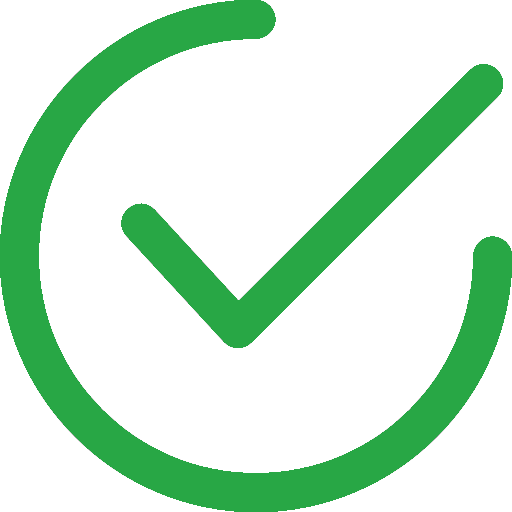
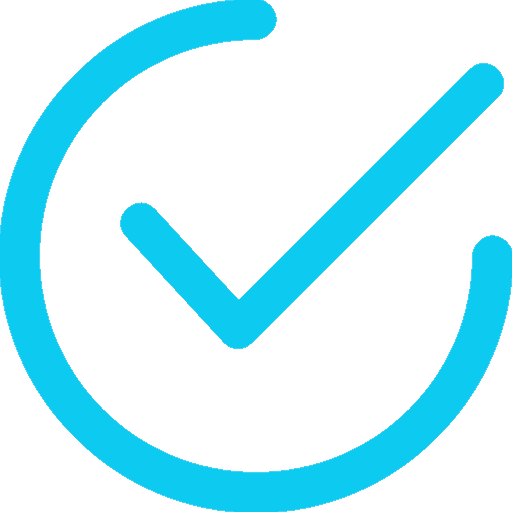
Updated UI. Fixed redirect issues with login. Conditionally rendered based on login.

Changed region(s): [[0.0, 0.0, 1.0, 1.0], [0.2188, 0.125, 1.0, 0.6875]]

diff --git a/frontend/src/components/contacts.jsx b/frontend/src/components/contacts.jsx
@@ -1,50 +1,49 @@
-import React from 'react';
+import React, { useState, useEffect } from 'react';
 import '../sass/components/_contacts.scss';
 
-const Contacts = () => {
+const Contacts = ({ contactsData }) => {
+    const [contacts, setContacts] = useState(contactsData);
+
+    useEffect(() => {
+        
+    }, []);
+
     return (
         <div className='contacts'>
-            <div className='contact d-flex justify-content-between align-items-center p-3'>
-                <div className='d-flex flex-column justify-content-between'>
-                    <h5 className='name'>Slay</h5>
-                    <small className='id'>a7a6d7a6dw7aad</small>
-                </div>
-                <a className='button btn btn-danger rounded-pill text-dark text-center p-2'>
-                    <svg
-                        xmlns='http://www.w3.org/2000/svg'
-                        width='1.3em'
-                        height='1.3em'
-                        fill='currentColor'
-                        class='bi bi-trash'
-                        viewBox='0 0 16 16'>
-                        <path d='M5.5 5.5A.5.5 0 0 1 6 6v6a.5.5 0 0 1-1 0V6a.5.5 0 0 1 .5-.5zm2.5 0a.5.5 0 0 1 .5.5v6a.5.5 0 0 1-1 0V6a.5.5 0 0 1 .5-.5zm3 .5a.5.5 0 0 0-1 0v6a.5.5 0 0 0 1 0V6z' />
-                        <path
-                            fill-rule='evenodd'
-                            d='M14.5 3a1 1 0 0 1-1 1H13v9a2 2 0 0 1-2 2H5a2 2 0 0 1-2-2V4h-.5a1 1 0 0 1-1-1V2a1 1 0 0 1 1-1H6a1 1 0 0 1 1-1h2a1 1 0 0 1 1 1h3.5a1 1 0 0 1 1 1v1zM4.118 4L4 4.059V13a1 1 0 0 0 1 1h6a1 1 0 0 0 1-1V4.059L11.882 4H4.118zM2.5 3V2h11v1h-11z'
-                        />
-                    </svg>
-                </a>
+            <div className='scrollable'>
+                {contacts.length !== 0 ? (
+                    contacts.map((contact) => {
+                        return (
+                            <div className='contact d-flex justify-content-between align-items-center p-3'>
+                                <div className='d-flex flex-column justify-content-between'>
+                                    <h5 className='name'>{contact}</h5>
+                                </div>
+                                <a className='button btn btn-danger text-dark text-center p-2'>
+                                    <svg
+                                        xmlns='http://www.w3.org/2000/svg'
+                                        width='1.3em'
+                                        height='1.3em'
+                                        fill='currentColor'
+                                        class='bi bi-trash'
+                                        viewBox='0 0 16 16'>
+                                        <path d='M5.5 5.5A.5.5 0 0 1 6 6v6a.5.5 0 0 1-1 0V6a.5.5 0 0 1 .5-.5zm2.5 0a.5.5 0 0 1 .5.5v6a.5.5 0 0 1-1 0V6a.5.5 0 0 1 .5-.5zm3 .5a.5.5 0 0 0-1 0v6a.5.5 0 0 0 1 0V6z' />
+                                        <path
+                                            fill-rule='evenodd'
+                                            d='M14.5 3a1 1 0 0 1-1 1H13v9a2 2 0 0 1-2 2H5a2 2 0 0 1-2-2V4h-.5a1 1 0 0 1-1-1V2a1 1 0 0 1 1-1H6a1 1 0 0 1 1-1h2a1 1 0 0 1 1 1h3.5a1 1 0 0 1 1 1v1zM4.118 4L4 4.059V13a1 1 0 0 0 1 1h6a1 1 0 0 0 1-1V4.059L11.882 4H4.118zM2.5 3V2h11v1h-11z'
+                                        />
+                                    </svg>
+                                </a>
+                            </div>
+                        );
+                    })
+                ) : (
+                    <div className='empty h-100 d-flex flex-column justify-content-center align-items-center'>
+                        You have no contacts
+                    </div>
+                )}
             </div>
-            <div className='contact d-flex justify-content-between align-items-center p-3'>
-                <div className='d-flex flex-column justify-content-between'>
-                    <h5 className='name'>Justin</h5>
-                    <small className='id'>b6va698d8sa96d8s</small>
-                </div>
-                <a className='button btn btn-danger rounded-pill text-dark text-center p-2'>
-                    <svg
-                        xmlns='http://www.w3.org/2000/svg'
-                        width='1.3em'
-                        height='1.3em'
-                        fill='currentColor'
-                        class='bi bi-trash'
-                        viewBox='0 0 16 16'>
-                        <path d='M5.5 5.5A.5.5 0 0 1 6 6v6a.5.5 0 0 1-1 0V6a.5.5 0 0 1 .5-.5zm2.5 0a.5.5 0 0 1 .5.5v6a.5.5 0 0 1-1 0V6a.5.5 0 0 1 .5-.5zm3 .5a.5.5 0 0 0-1 0v6a.5.5 0 0 0 1 0V6z' />
-                        <path
-                            fill-rule='evenodd'
-                            d='M14.5 3a1 1 0 0 1-1 1H13v9a2 2 0 0 1-2 2H5a2 2 0 0 1-2-2V4h-.5a1 1 0 0 1-1-1V2a1 1 0 0 1 1-1H6a1 1 0 0 1 1-1h2a1 1 0 0 1 1 1h3.5a1 1 0 0 1 1 1v1zM4.118 4L4 4.059V13a1 1 0 0 0 1 1h6a1 1 0 0 0 1-1V4.059L11.882 4H4.118zM2.5 3V2h11v1h-11z'
-                        />
-                    </svg>
-                </a>
+            <div className='add-button d-flex align-items-stretch px-5 py-3'>
+                <button className='btn btn-info h-100 w-100'>New Contact</button>
             </div>
         </div>
     );

diff --git a/frontend/src/components/conversations.jsx b/frontend/src/components/conversations.jsx
@@ -4,7 +4,7 @@ import '../sass/components/_conversations.scss';
 import { useSocket } from '../contexts/SocketProvider';
 
 const Conversations = () => {
-    const [conversations, setConversations] = useState([]);
+    const [conversations, setConversations] = useState();
     const socket = useSocket();
 
     useEffect(() => {
@@ -24,7 +24,7 @@ const Conversations = () => {
 
     return (
         <div className='conversations'>
-            {conversations &&
+            {conversations ? (
                 conversations.map((conversation) => {
                     return (
                         <div className='conversation p-3'>
@@ -39,7 +39,12 @@ const Conversations = () => {
                             </small>
                         </div>
                     );
-                })}
+                })
+            ) : (
+                <div className='empty h-100 d-flex flex-column justify-content-center align-items-center'>
+                    You have no conversations yet
+                </div>
+            )}
         </div>
     );
 };

diff --git a/frontend/src/components/sidebar.jsx b/frontend/src/components/sidebar.jsx
@@ -28,6 +28,7 @@ const SideBar = () => {
                     if (res.data.success) {
                         // remove user from redux store
                         dispatch(setUser());
+                        history.push('/login');
                     }
                 });
         }
@@ -108,7 +109,12 @@ const SideBar = () => {
                                 <Conversations />
                             </Tab.Pane>
                             <Tab.Pane eventKey='contacts'>
-                                <Contacts />
+                                <Contacts
+                                    contactsData={
+                                        user.currentUser &&
+                                        user.currentUser.Contacts
+                                    }
+                                />
                             </Tab.Pane>
                             <Tab.Pane eventKey='profile'>
                                 <Profile />

diff --git a/frontend/src/sass/components/_contacts.scss b/frontend/src/sass/components/_contacts.scss
@@ -2,7 +2,29 @@
 
 .contacts {
     height: 80vh;
-    overflow-y: auto;
+    display: flex;
+    flex-direction: column;
+    justify-content: space-between;
+
+    .scrollable {
+        height: 75vh;
+        overflow-y: auto;
+    }
+
+    .scrollable::-webkit-scrollbar {
+        width: 10px;
+        background-color: $dark-accent;
+    }
+
+    .scrollable::-webkit-scrollbar-thumb {
+        background-color: rgb(26, 26, 26);
+        border-radius: 50rem;
+    }
+
+    .add-button {
+        background-color: $darkest;
+        flex-grow: 1;
+    }
 
     .name {
         color: $theme;
@@ -23,14 +45,8 @@
     .contact:hover {
         background-color: $dark;
     }
-}
 
-.conversations::-webkit-scrollbar {
-    width: 10px;
-    background-color: $dark-accent;
-}
-
-.conversations::-webkit-scrollbar-thumb {
-    background-color: rgb(26, 26, 26);
-    border-radius: 50rem;
+    .empty {
+        color: $text-active;
+    }
 }

diff --git a/frontend/src/sass/components/_sidebar.scss b/frontend/src/sass/components/_sidebar.scss
@@ -19,33 +19,12 @@
     .footer {
         background-color: rgba(22, 22, 22, 0.288);
         margin-top: auto;
-        height: 10% !important;
+        min-height: 10% !important;
     }
 
     .title {
         color: $theme;
         font-family: 'Langar', cursive;
-    }
-
-    .notifications {
-        cursor: pointer;
-        margin-right: 25px;
-        grid-area: notifications;
-    }
-
-    .notification-count {
-        transform: translate(5px, -5px);
-        text-align: center;
-        padding: 1px;
-        font-size: 14px;
-        width: 1.3em;
-        height: 1.3em;
-        background-color: red;
-        border-radius: 50%;
-        display: flex;
-        flex-direction: column;
-        justify-content: center;
-        position: absolute;
     }
 
     .nav-item {

diff --git a/frontend/src/App.js b/frontend/src/App.js
@@ -12,7 +12,6 @@ import axios from 'axios';
 
 function App() {
     const user = useSelector((state) => state.userReducer);
-    const [id, setId] = useState('');
     const dispatch = useDispatch();
 
     useEffect(() => {
@@ -39,7 +38,7 @@ function App() {
         <div>
             <Router>
                 <Route path='/' exact>
-                    <SocketProvider id={id}>
+                    <SocketProvider id={user.currentUser && user.currentUser.Username}>
                         <SideBar />
                         <Chat />
                     </SocketProvider>

diff --git a/frontend/src/sass/_custom.scss b/frontend/src/sass/_custom.scss
@@ -1,12 +1,13 @@
 $dark: #282c34;
 $dark-accent: #21252b;
+$darkest: rgba(22, 22, 22, 0.288);
 $text-dark: #495153;
 $text-active: #abb2bf;
 $text: #cccccc;
 $theme: #ff0080;
-$theme-secondary:#0DCAF0;
+$theme-secondary: #0dcaf0;
 
-$sidebar-width: 25em;
+$sidebar-width: 20%;
 
 .bg-dark {
     background-color: $dark !important;

diff --git a/backend/routes/userRoute.js b/backend/routes/userRoute.js
@@ -102,7 +102,6 @@ router.route('/register').post(function (req, res, next) {
 });
 
 router.route('/login').post(function (req, res, next) {
-    console.log(req);
     const { body } = req;
     const { password } = body;
     let { username } = body;

diff --git a/frontend/src/sass/components/_conversations.scss b/frontend/src/sass/components/_conversations.scss
@@ -20,6 +20,10 @@
         background-color: $dark;
     }
 
+    .empty {
+        color: $text-active;
+    }
+
     .content {
         color: $text;
         white-space: nowrap;

diff --git a/frontend/src/sass/components/_login.scss b/frontend/src/sass/components/_login.scss
@@ -20,11 +20,11 @@
     }
 
     .loading-img {
-        width: 5em;
+        width: 4em;
     }
 
     .success-img {
-        width: 4em;
+        width: 3em;
     }
 
     .btn {
